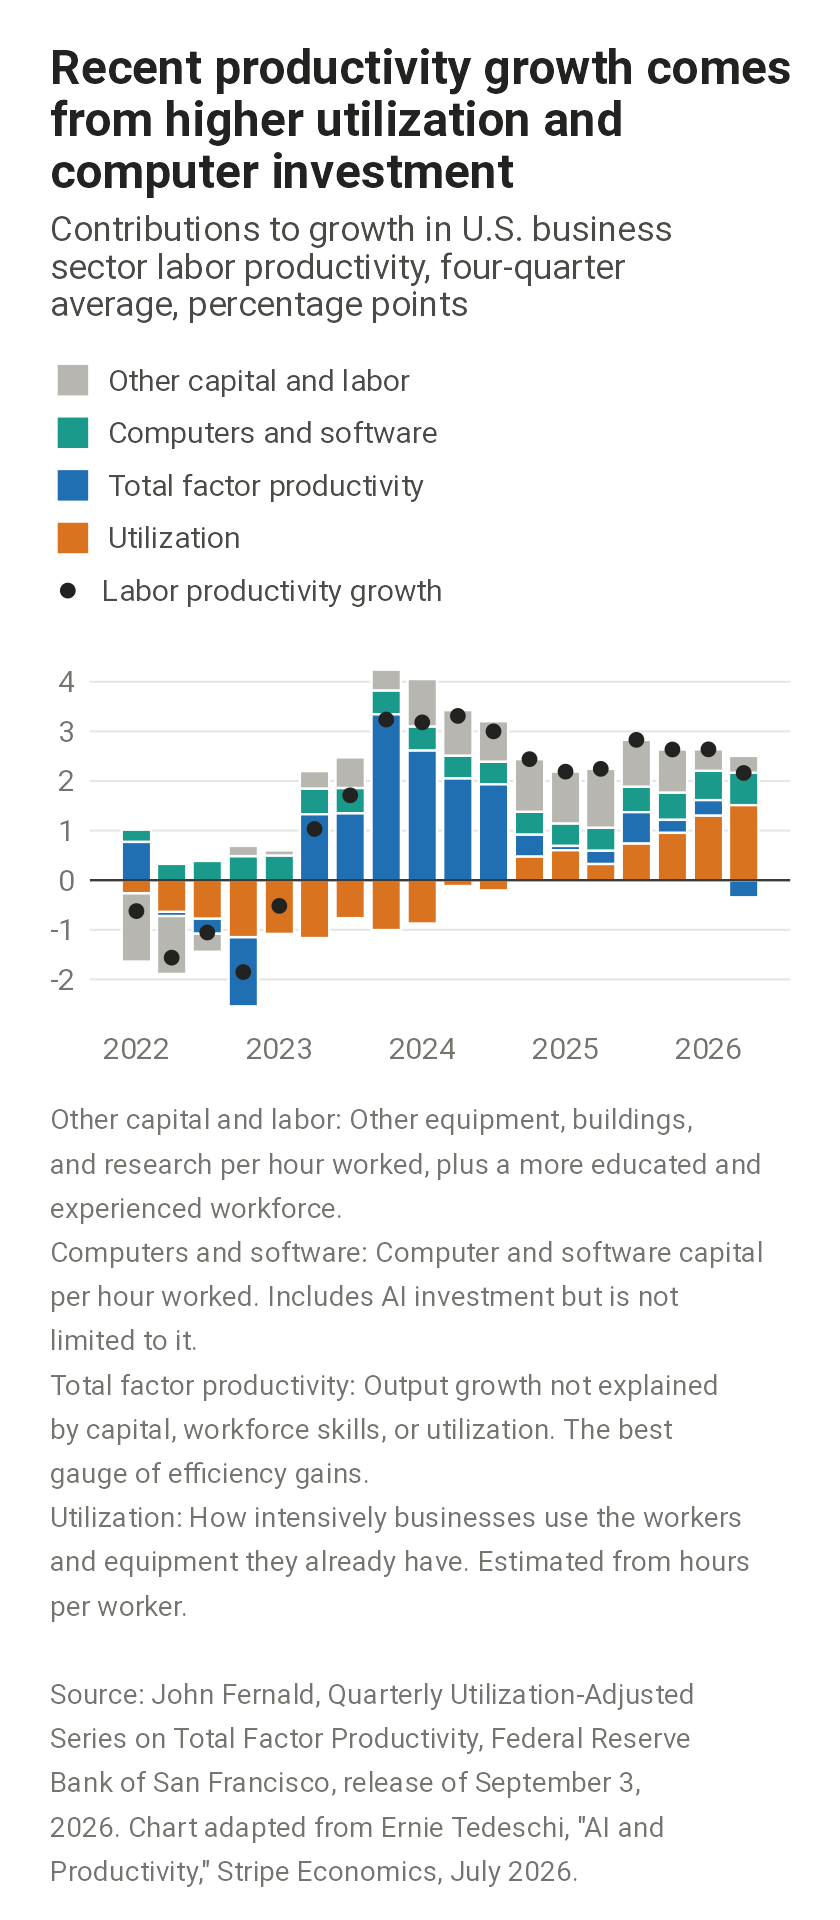
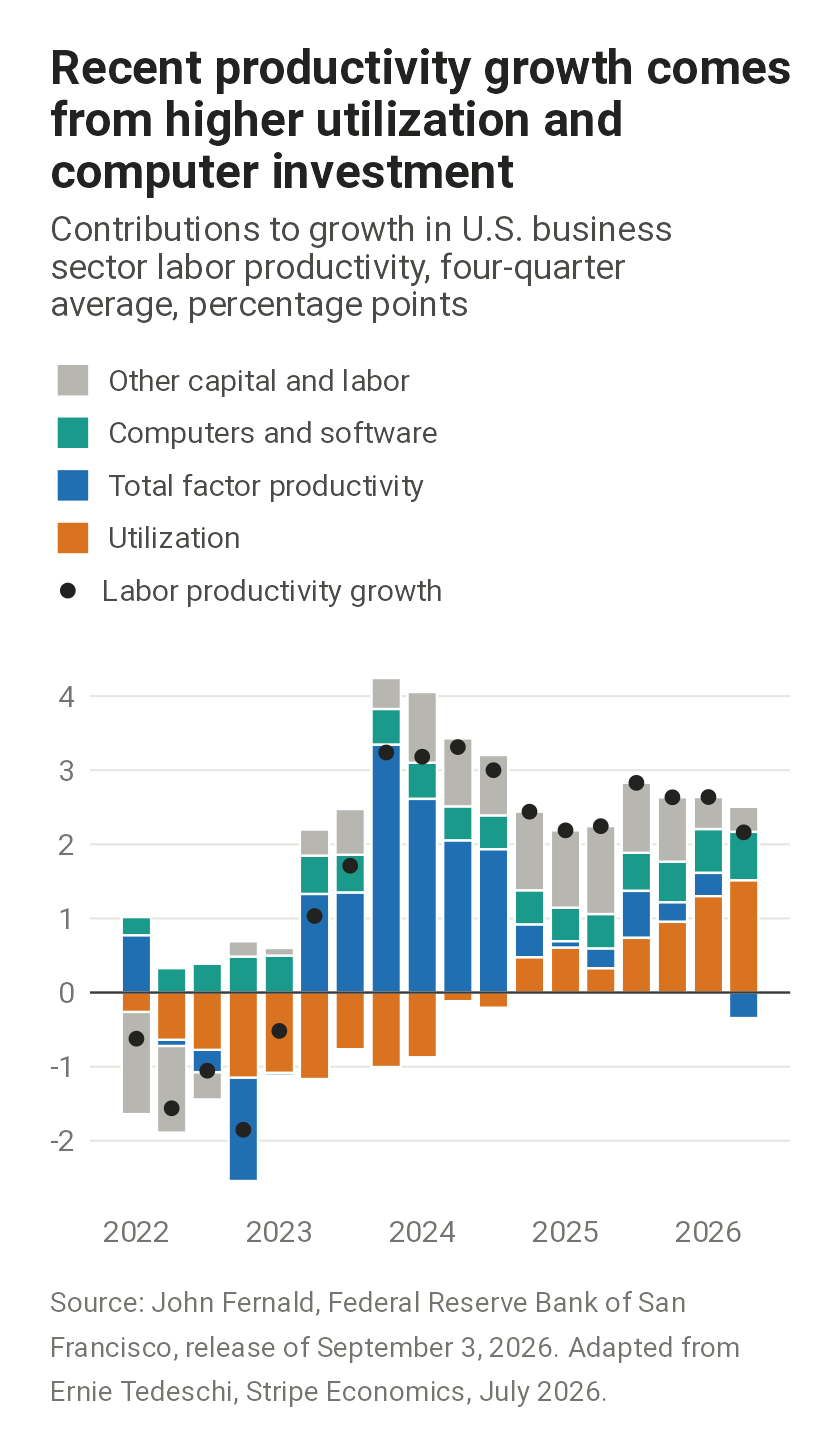
Move chart notes and sources out of the images and onto the page
Text drawn into a chart image shrinks with it, to about 11 pixels on a
phone, in light grey. Notes are now page text under each chart, written
by build.R to output/<chart>-notes.md and included by the topic page:
full size, body-text grey, terms in bold, source links clickable. The
images keep a short source line so they still credit their sources when
shared. The investment chart's notes are shortened.

Claude-Session: https://claude.ai/code/session_01C4kQtTHdakDNHHerQuEFwM

Changed region(s): [[0.0619, 0.0, 0.9595, 1.0]]

diff --git a/styles.css b/styles.css
@@ -39,3 +39,19 @@ a {
 .chart-download {
   font-size: 0.9rem;
 }
+
+/* Notes and sources are page text rather than part of the chart image, so they
+   stay readable at any screen size. Same darker grey as body text, slightly smaller. */
+.chart-notes {
+  font-size: 0.95rem;
+  line-height: 1.5;
+  margin-top: 0.75rem;
+}
+
+.chart-notes p {
+  margin-bottom: 0.5rem;
+}
+
+.chart-notes strong {
+  color: #222220;
+}

diff --git a/STYLE.md b/STYLE.md
@@ -11,23 +11,31 @@ The house style follows Datawrapper's published guidance, adapted for static cha
 
 ## Text
 
-The hierarchy has four levels, and nothing else competes with them.
+The image has four levels of text, and nothing else competes with them. Definitions and the full source sit under the chart as page text (see Notes).
 
 | Level | Use | Style |
 |-------|-----|-------|
 | Title | The finding, in a plain sentence | Bold, largest, darkest grey |
 | Subtitle | What is measured, and its units | Regular, dark grey |
 | Labels and legend | Series names, axis values | Regular, smaller |
-| Notes and source | Definitions, source, credit | Smallest, lightest grey, with extra line spacing |
+| Source line | Short source and credit, inside the image | Smallest, lightest grey |
 
 - **Titles state the finding in everyday language** ("comes mostly from working existing equipment and workers harder"), not the dataset name. Accurate before catchy. The technical description belongs in the subtitle.
 - **No acronyms in anything a reader sees**: titles, labels, legends, notes. Spell out total factor productivity, not TFP. The exceptions are ones any reader knows, such as GDP and AI.
 - **Units go in the subtitle** and in any label that shows a value. No axis titles when the subtitle already gives the units.
 - **Legend labels are short**, two or three words. Anything a short label leaves out goes in the notes.
-- **Notes define terms a general reader may not know.** One line per term, written as "Label: definition," in the same order as the legend. Keep each definition short enough to fit on one line. No equations. The spec holds the formulas.
-- **A blank line separates the definitions from the source line.**
-- **The source line names the data and its release**, then credits the original analysis when the chart builds on someone else's work.
+- **The source line in the image is short**: the data's provider and release, and the original analysis by author and outlet. An image saved or shared on its own still says where it came from.
 - Sentence case everywhere. No rotated axis labels. Drop trailing zeros from numbers.
+
+## Notes
+
+Notes are page text under each chart, not part of the image. Text drawn into an image shrinks with it, to about 11 pixels on a phone, and can't be zoomed cleanly, copied, clicked, or read aloud. Datawrapper handles notes the same way.
+
+- `build.R` writes them with `write_chart_notes()` to `output/<chart>-notes.md`, and the topic page includes that file under the chart. Numbers in notes come from the data, so they update on refresh.
+- **Definitions first**, one paragraph per term, written as "**Label:** definition," in the same order as the legend. No equations. The spec holds the formulas.
+- **Then any sentence the reader needs to interpret the chart**, kept to one or two. Analysis belongs in the spec.
+- **The full source line comes last**: the data and its release, then credit to the original analysis, with links.
+- Styled in `styles.css` as `.chart-notes`: body-text grey, slightly smaller than body text, terms in bold.
 
 ## Color
 
@@ -50,7 +58,7 @@ Rules:
 - **The same thing keeps the same color** across charts. In the productivity charts, total factor productivity is always blue and utilization always orange.
 - **Use as few colors as the point needs.** Put what matters in color and the rest in grey. More than six colors means a different chart or grouping into "other."
 - **Order the legend like the chart**: top to bottom for stacked bars. Label directly on the chart when it fits.
-- Greys for non-data elements: title `#222220`, text `#4a4a47`, notes and axis labels `#75746f`, zero line `#3a3a38`, gridlines `#e6e5e1`.
+- Greys for non-data elements: title `#222220`, text `#4a4a47`, source line and axis labels `#75746f`, zero line `#3a3a38`, gridlines `#e6e5e1`.
 - Sequential and diverging scales are not defined yet. Add them when the first chart needs one.
 
 ## Data download
@@ -66,9 +74,9 @@ Roboto, Datawrapper's default. It has lining, tabular figures, so numbers align.
 - Horizontal gridlines only, in light grey. No axis lines or tick marks.
 - A darker zero line when values go negative.
 - Legend at the top left, above the plot.
-- Title, subtitle, legend, and notes align with the left edge of the image, not the plot panel.
+- Title, subtitle, legend, and source line align with the left edge of the image, not the plot panel.
 - White background. Saved as PNG with `ragg` at 200 dpi.
-- Every chart is saved twice: a wide version, 10 inches across, for desktops, and a narrow version, 4.2 inches across and named `*-narrow.png`, which the site shows on screens up to 600 pixels wide. `chart_labels()` wraps the title, subtitle, and notes to fit each width. The narrow version stacks its legend in one column.
+- Every chart is saved twice: a wide version, 10 inches across, for desktops, and a narrow version, 4.2 inches across and named `*-narrow.png`, which the site shows on screens up to 600 pixels wide. `chart_labels()` wraps the title, subtitle, and source line to fit each width. The narrow version stacks its legend in one column.
 
 ## Sources
 

diff --git a/charts/ai-investment-gdp/output/ai-investment-gdp-notes.md b/charts/ai-investment-gdp/output/ai-investment-gdp-notes.md
@@ -1,0 +1,17 @@
+::: {.chart-notes}
+
+**Data centers and power:** Construction of data centers and of electric power and other power facilities.
+
+**Software:** Business investment in software, both purchased and developed in house.
+
+**Computers:** Business investment in computers and peripheral equipment.
+
+**Net trade in computers:** Exports minus imports of computers and parts, counting only the capital goods share of trade.
+
+Over the four quarters through 2026 Q2, AI-related investment added 0.66 point a year to growth before computer trade and 0.45 after, so trade offset 31 percent. Counting computer trade by businesses' share of U.S. spending on computers puts the offset at 37 percent, and valuing it at the prices of business investment in computers puts it at 48 percent.
+
+In 2026 Q2, computer trade added to growth even though spending on imported computers rose, because import prices rose about twice as fast as prices of business investment in computers.
+
+Source: Bureau of Economic Analysis, National Income and Product Accounts, data through 2026 Q2. Method from Paul E. Soto, Mason Thieu, and Jeffrey S. Allen, ["The AI Buildout and the Economy"](https://www.federalreserve.gov/econres/notes/feds-notes/the-ai-buildout-and-the-economy-publicly-available-data-to-assess-ais-impact-20260717.html), FEDS Notes, Federal Reserve Board, July 2026.
+
+:::

diff --git a/charts/ai-adoption/output/ai-adoption-notes.md b/charts/ai-adoption/output/ai-adoption-notes.md
@@ -1,0 +1,13 @@
+::: {.chart-notes}
+
+**Firms:** Share of businesses that used AI in the previous two weeks. Until October 2025 the question asked about AI in producing goods or services; since November 2025 it asks about AI in any business function.
+
+**Workers:** Share of employed adults who use generative AI for their job.
+
+**Jobs at firms using AI:** Share of employment at firms that use AI, from one survey of business executives in November 2025.
+
+In September 2026, 44 percent of firms with 250 or more employees used AI, compared with 24 percent of firms with fewer than 5.
+
+Sources: Census Bureau, [Business Trends and Outlook Survey](https://www.census.gov/hfp/btos/), through September 6, 2026; Alexander Bick, Adam Blandin, and David Deming, Real-Time Population Survey, from the [Generative AI Adoption Tracker](https://www.genaiadoptiontracker.com/), through May 2026; Federal Reserve Bank of Atlanta, Survey of Business Uncertainty. Chart builds on Jeffrey S. Allen, ["Monitoring AI Adoption in the U.S. Economy"](https://www.federalreserve.gov/econres/notes/feds-notes/monitoring-ai-adoption-in-the-u-s-economy-20260403.html), FEDS Notes, Federal Reserve Board, April 2026.
+
+:::

diff --git a/charts/productivity-decomposition/output/productivity-decomposition-notes.md b/charts/productivity-decomposition/output/productivity-decomposition-notes.md
@@ -1,0 +1,13 @@
+::: {.chart-notes}
+
+**Other capital and labor:** Other equipment, buildings, and research per hour worked, plus a more educated and experienced workforce.
+
+**Computers and software:** Computer and software capital per hour worked. Includes AI investment but is not limited to it.
+
+**Total factor productivity:** Output growth not explained by capital, workforce skills, or utilization. The best gauge of efficiency gains.
+
+**Utilization:** How intensively businesses use the workers and equipment they already have. Estimated from hours per worker.
+
+Source: John Fernald, [Quarterly Utilization-Adjusted Series on Total Factor Productivity](https://www.frbsf.org/research-and-insights/data-and-indicators/total-factor-productivity-tfp/), Federal Reserve Bank of San Francisco, release of September 3, 2026. Chart adapted from Ernie Tedeschi, ["AI and Productivity"](https://www.stripeeconomics.com/p/ai-and-productivity), Stripe Economics, July 2026.
+
+:::
